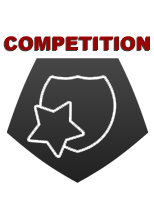
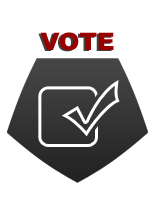
competition and ranking for kickoff.

Changed region(s): [[0.1558, 0.3349, 0.7792, 0.7535], [0.0, 0.1395, 0.987, 0.2512]]

diff --git a/Kickoff/screens/NewMenuScreen.cpp b/Kickoff/screens/NewMenuScreen.cpp
@@ -20,13 +20,9 @@ static item menuItems[] =
 	{ RES_ALBUM_THUMB, RES_ALBUM_THUMB_SEL, RES_ALBUM, OP_ALBUMS },
 	{ RES_COMPETITIONS_THUMB, RES_COMPETITIONS_THUMB_SEL, RES_COMPETITIONS, OP_COMPETITIONS },
 	{ RES_SHOP_THUMB, RES_SHOP_THUMB_SEL, RES_SHOP, OP_SHOP },
-	{ RES_AUCTIONS_THUMB, RES_AUCTIONS_THUMB_SEL, RES_AUCTIONS, OP_AUCTIONS },
+	{ RES_RANKING_THUMB, RES_RANKING_THUMB_SEL, RES_RANKING, OP_RANKING },
 	{ RES_NOTIFICATIONS_THUMB, RES_NOTIFICATIONS_THUMB_SEL, RES_NOTIFICATIONS, OP_NOTIFICATIONS },
-	{ RES_CREDITS_THUMB, RES_CREDITS_THUMB_SEL, RES_CREDITS, OP_CREDITS },
 	{ RES_PROFILE_THUMB, RES_PROFILE_THUMB_SEL, RES_PROFILE, OP_PROFILE },
-	{ RES_FRIENDS_THUMB, RES_FRIENDS_THUMB_SEL, RES_FRIENDS, OP_FRIENDS },
-	{ RES_INVITE_THUMB, RES_INVITE_THUMB_SEL, RES_INVITE, OP_INVITEFRIENDS },
-	{ RES_REDEEM_THUMB, RES_REDEEM_THUMB_SEL, RES_REDEEM, OP_REDEEM },
 	{ RES_LOGOUT_THUMB, RES_LOGOUT_THUMB_SEL, RES_LOGOUT, OP_LOGOUT }
 };
 
@@ -180,13 +176,13 @@ void NewMenuScreen::keyPressEvent(int keyCode) {
 				}
 				next = new ShopCategoriesScreen(this, feed, ShopCategoriesScreen::ST_SHOP);
 				next->show();
-			} else if(index == OP_AUCTIONS) {
+			} else if(index == OP_RANKING) {
 				if(next!=NULL){
 					delete next;
 					feed->remHttp();
 					next = NULL;
 				}
-				next = new ShopCategoriesScreen(this, feed, ShopCategoriesScreen::ST_AUCTIONS);
+				next = new ShopCategoriesScreen(this, feed, ShopCategoriesScreen::ST_RANKING);
 				next->show();
 			} else if(index == OP_CREDITS) {
 				if(next!=NULL){
@@ -212,32 +208,6 @@ void NewMenuScreen::keyPressEvent(int keyCode) {
 				}
 				/* Notifications */
 				next = new DetailScreen(this, feed, DetailScreen::NOTIFICATIONS, NULL);
-				next->show();
-			} else if(index == OP_FRIENDS) {
-				if(next!=NULL){
-					delete next;
-					feed->remHttp();
-					next = NULL;
-				}
-				/* Notifications */
-				next = new DetailScreen(this, feed, DetailScreen::FRIENDS, NULL);
-				next->show();
-			} else if(index == OP_INVITEFRIENDS) {
-				if(next!=NULL){
-					delete next;
-					feed->remHttp();
-					next = NULL;
-				}
-				/*Invite Friend */
-				next = new TradeFriendDetailScreen(this, feed, NULL);
-				next->show();
-			} else if(index == OP_REDEEM) {
-				if(next!=NULL){
-					delete next;
-					feed->remHttp();
-					next = NULL;
-				}
-				next = new RedeemScreen(feed, this);
 				next->show();
 			} else if (index == OP_LOGOUT) {
 #if not defined(MA_PROF_STRING_PLATFORM_IPHONEOS)

diff --git a/Kickoff/screens/Login.cpp b/Kickoff/screens/Login.cpp
@@ -154,16 +154,6 @@ void Login::drawRegisterScreen() {
 	label->addWidgetListener(this);
 	kinListBox->add(label);
 
-	label = new Label(0,0, scrWidth-PADDING*2, DEFAULT_SMALL_LABEL_HEIGHT, NULL, "Referrer", 0, Util::getDefaultFont());
-	label->setDrawBackground(false);
-	kinListBox->add(label);
-
-	label = Util::createEditLabel("");
-	editBoxRefer = new NativeEditBox(0, 0, label->getWidth()-PADDING*2, label->getHeight()-PADDING*2, 64, MA_TB_TYPE_EMAILADDR, label, "", L"Referrer");
-	editBoxRefer->setDrawBackground(false);
-	label->addWidgetListener(this);
-	kinListBox->add(label);
-
 	kinListBox->setSelectedIndex(1);
 }
 
@@ -369,10 +359,6 @@ void Login::keyPressEvent(int keyCode) {
 							notice->setCaption("Please enter a email address without spaces.");
 							maVibrate(1000);
 						}
-						else if (!Util::validateNoWhiteSpaces(editBoxRefer->getText())) {
-							notice->setCaption("Please enter a referer name.");
-							maVibrate(1000);
-						}
 						else {
 							result = "";
 							isBusy = true;
@@ -386,11 +372,11 @@ void Login::keyPressEvent(int keyCode) {
 							feed->setUnsuccessful("true");
 							char *url = NULL;
 							//work out how long the url will be, the 2 is for the & and = symbols
-							int urlLength = 89 + URLSIZE + editBoxLogin->getText().length() + editBoxPass->getText().length() + editBoxEmail->getText().length() + editBoxRefer->getText().length();
+							int urlLength = 89 + URLSIZE + editBoxLogin->getText().length() + editBoxPass->getText().length() + editBoxEmail->getText().length();
 							url = new char[urlLength+1];
 							memset(url,'\0',urlLength+1);
-							sprintf(url, "%s?registeruser=1&username=%s&password=%s&email=%s&referer=%s", URL, editBoxLogin->getText().c_str(),
-									editBoxPass->getText().c_str(), editBoxEmail->getText().c_str(), editBoxRefer->getText().c_str());
+							sprintf(url, "%s?registeruser=1&username=%s&password=%s&email=%s", URL, editBoxLogin->getText().c_str(),
+									editBoxPass->getText().c_str(), editBoxEmail->getText().c_str());
 							lprintfln("%s", url);
 							mHttp = HttpConnection(this);
 							int res = mHttp.create(url, HTTP_GET);

diff --git a/Kickoff/MAHeaders.h b/Kickoff/MAHeaders.h
@@ -79,6 +79,8 @@
 #define RES_SHOP_THUMB 79
 #define RES_COMPETITIONS 94
 #define RES_COMPETITIONS_THUMB 95
+#define RES_RANKING 108
+#define RES_RANKING_THUMB 109
 
 #define RES_ALBUM_THUMB_SEL 96
 #define RES_AUCTIONS_THUMB_SEL 97
@@ -91,6 +93,7 @@
 #define RES_PROFILE_THUMB_SEL 104
 #define RES_REDEEM_THUMB_SEL 105
 #define RES_SHOP_THUMB_SEL 106
+#define RES_RANKING_THUMB_SEL 110
 
 #define RES_DESELECTED_LIST_DOT 80
 #define RES_SELECTED_LIST_DOT 81
@@ -207,14 +210,11 @@
 #define OP_ALBUMS 0
 #define OP_COMPETITIONS 1
 #define OP_SHOP 2
-#define OP_AUCTIONS 3
+#define OP_RANKING 3
 #define OP_NOTIFICATIONS 4
 #define OP_CREDITS 5
 #define OP_PROFILE 6
-#define OP_FRIENDS 7
-#define OP_INVITEFRIENDS 8
-#define OP_REDEEM 9
-#define OP_LOGOUT 10
+#define OP_LOGOUT 7
 
 #include <MAUtil/String.h>
 
@@ -223,6 +223,6 @@ using namespace MAUtil;
 #ifndef _MAHeaders_H_
 #define _MAHeaders_H_
 
-static String FILE_PREFIX = "gamecards_";
+static String FILE_PREFIX = "kickoff_";
 
 #endif

diff --git a/Kickoff/screens/AlbumViewScreen.cpp b/Kickoff/screens/AlbumViewScreen.cpp
@@ -506,12 +506,12 @@ void AlbumViewScreen::drawList() {
 		index.add(itr->second->getId());
 		String cardText = "";
 		cardText += itr->second->getText();
-		cardText += " (";
+		/*cardText += " (";
 		cardText += itr->second->getQuantity();
 		cardText += ")\n";
 		cardText += itr->second->getRarity();
 		cardText += "\nRating: ";
-		cardText += itr->second->getRanking();
+		cardText += itr->second->getRanking();*/
 
 		feedlayout = new Layout(0, 0, tempList->getWidth()-(PADDING*2), ALBUM_ITEM_HEIGHT + ((midListBox->getHeight() % THUMB_HEIGHT) / cardsPerList), tempList, 2, 1);
 		feedlayout->setSkin(Util::getSkinAlbum());

diff --git a/Kickoff/utils/XmlConnection.cpp b/Kickoff/utils/XmlConnection.cpp
@@ -28,7 +28,7 @@ void XmlConnection::connRecvFinished(MAUtil::Connection* conn, int result) {
     mPtr[result] = 0;
     mPtr = mBuffer;
 
-    lprintfln("[%s]", mBuffer);
+    //lprintfln("[%s]", mBuffer);
 
     bool stopped = mContext.feed(mBuffer);
 	if(!stopped) {

diff --git a/Kickoff/screens/Login.h b/Kickoff/screens/Login.h
@@ -36,7 +36,7 @@ private:
 
 	Widget *currentSelectedKey;
 
-	NativeEditBox *editBoxLogin, *editBoxPass, *editBoxEmail, *editBoxRefer;
+	NativeEditBox *editBoxLogin, *editBoxPass, *editBoxEmail;
 
 	HttpConnection mHttp;
 
